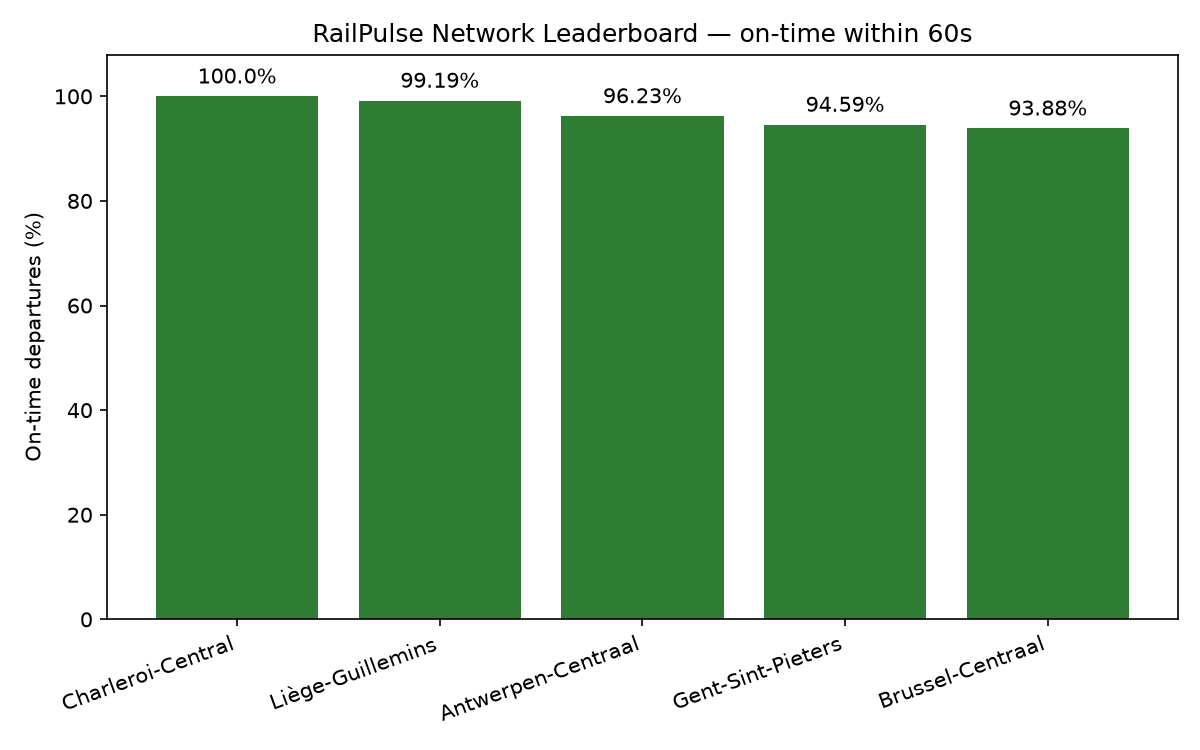
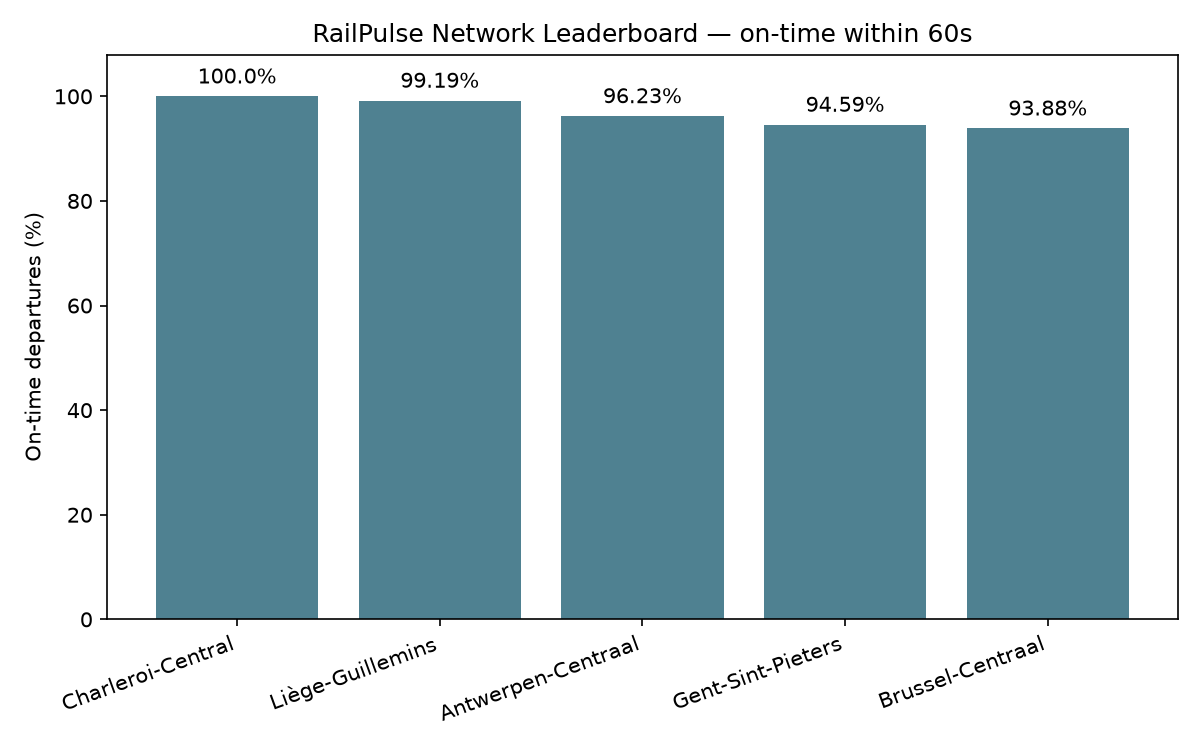
change color png

diff --git a/src/network_leaderboard.py b/src/network_leaderboard.py
@@ -64,7 +64,7 @@ def main() -> None:
 
     DOCS_DIR.mkdir(exist_ok=True)
     fig, ax = plt.subplots(figsize=(8, 5))
-    bars = ax.bar(stations, on_time_pcts, color="#2E7D32")
+    bars = ax.bar(stations, on_time_pcts, color="#4F8191")
     ax.set_ylabel("On-time departures (%)")
     ax.set_title(f"RailPulse Network Leaderboard — on-time within {ON_TIME_THRESHOLD_SECONDS}s")
     ax.set_ylim(0, 108)
